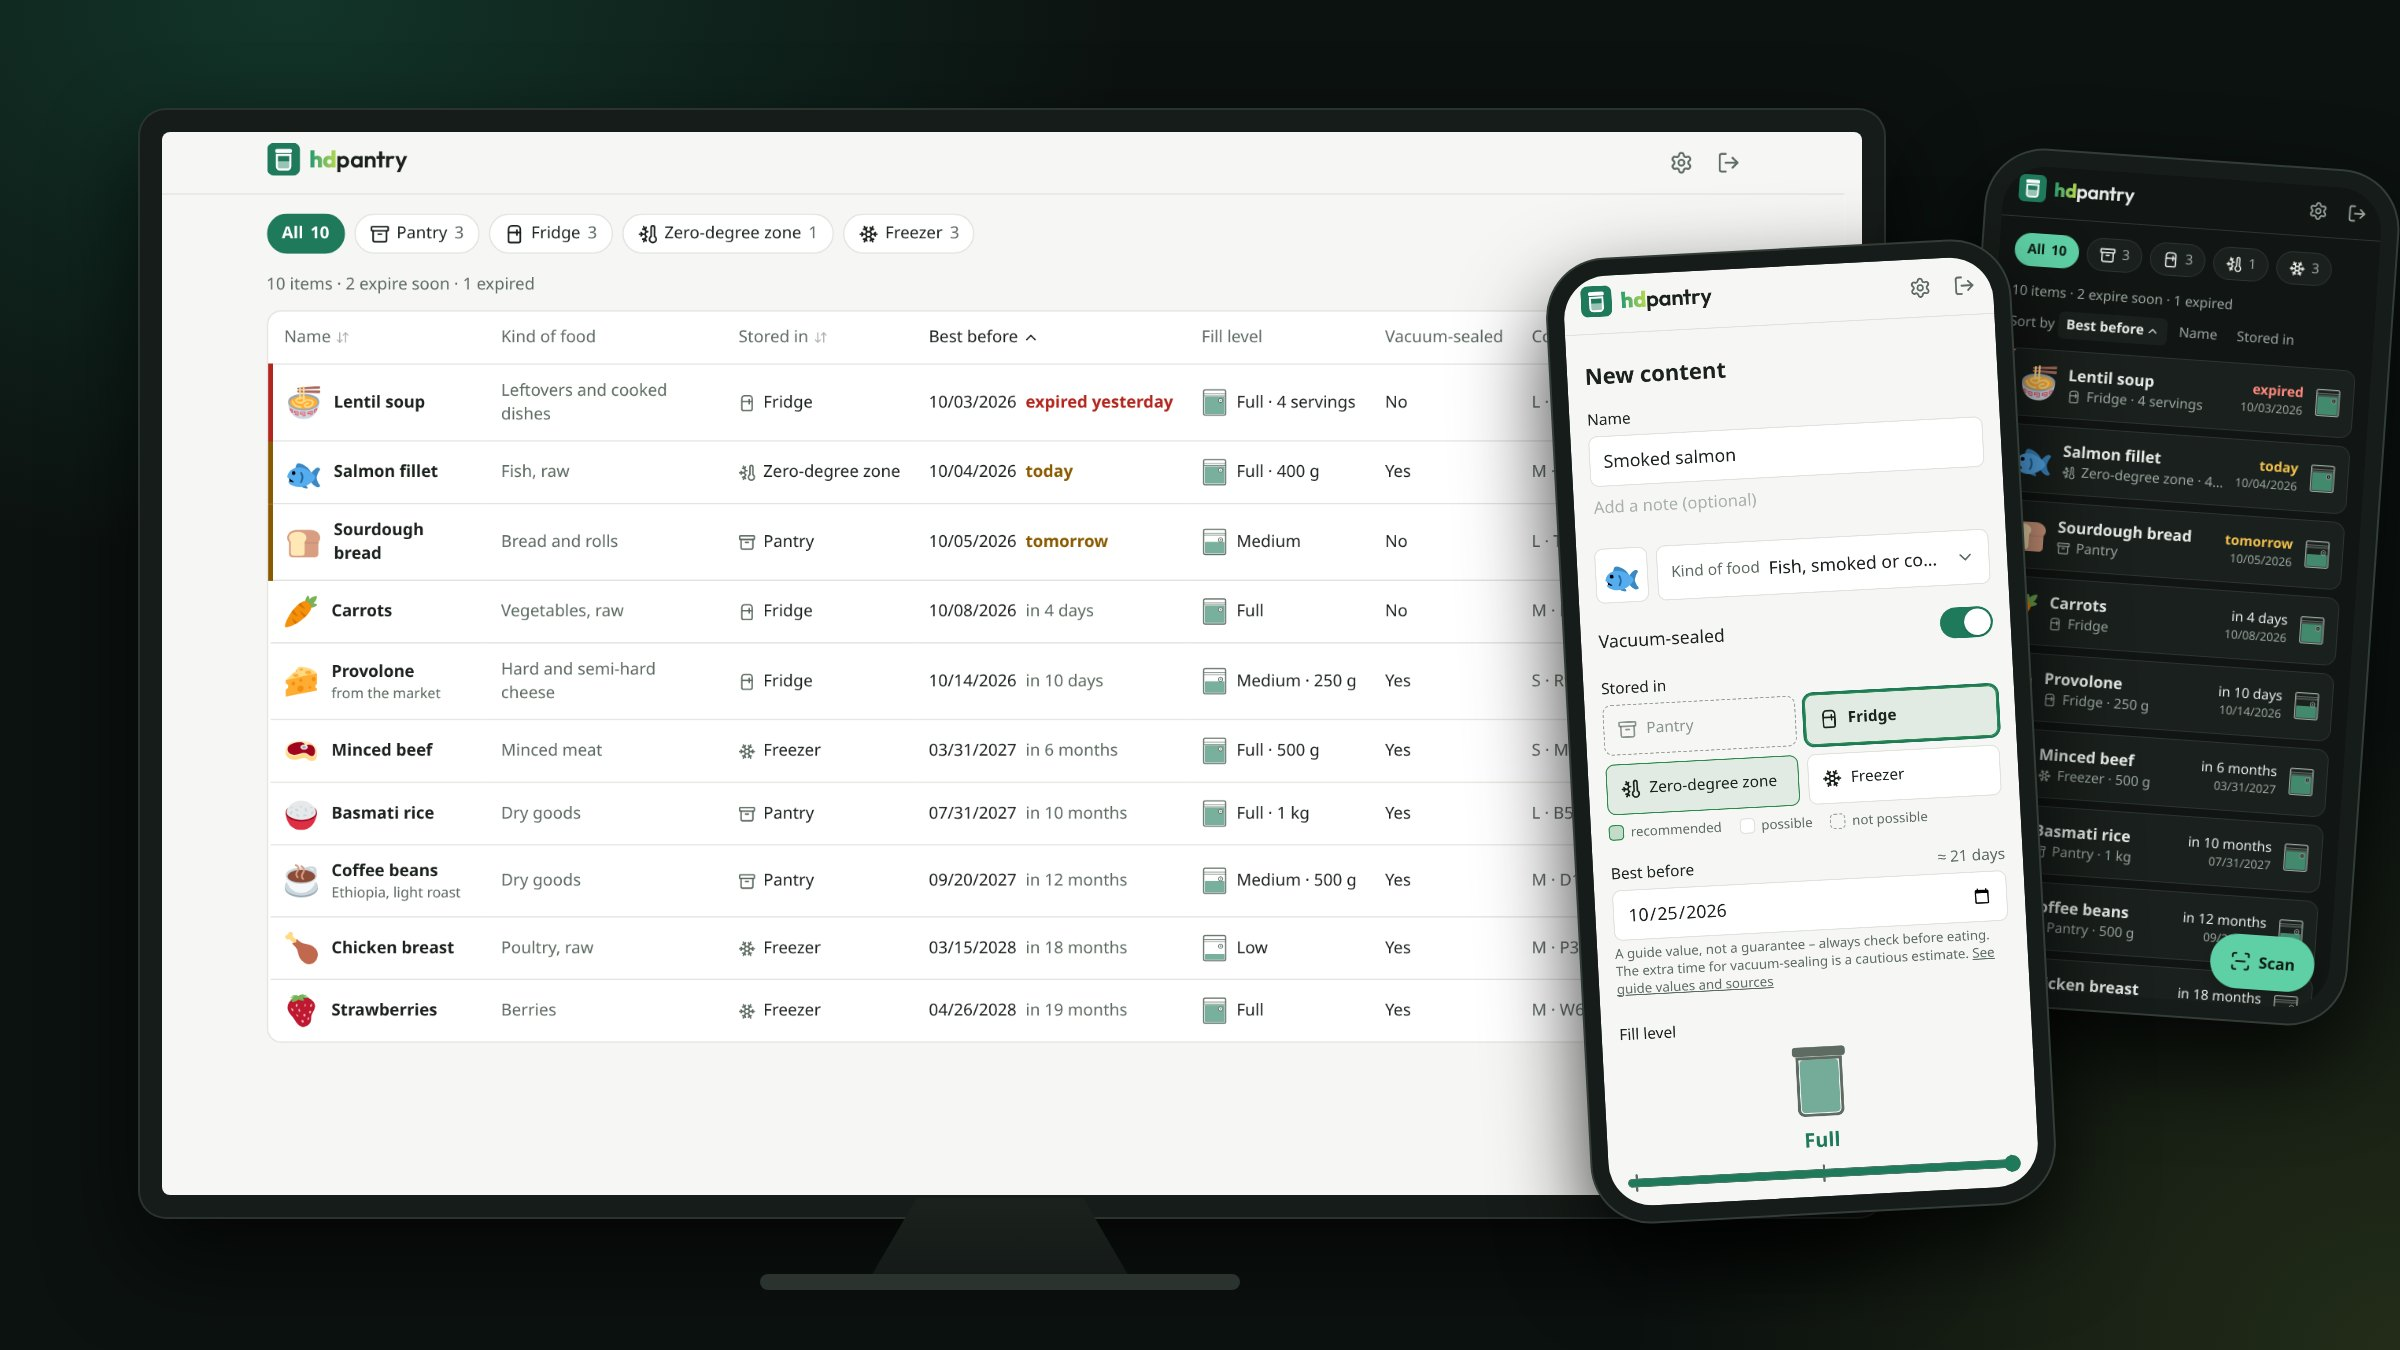
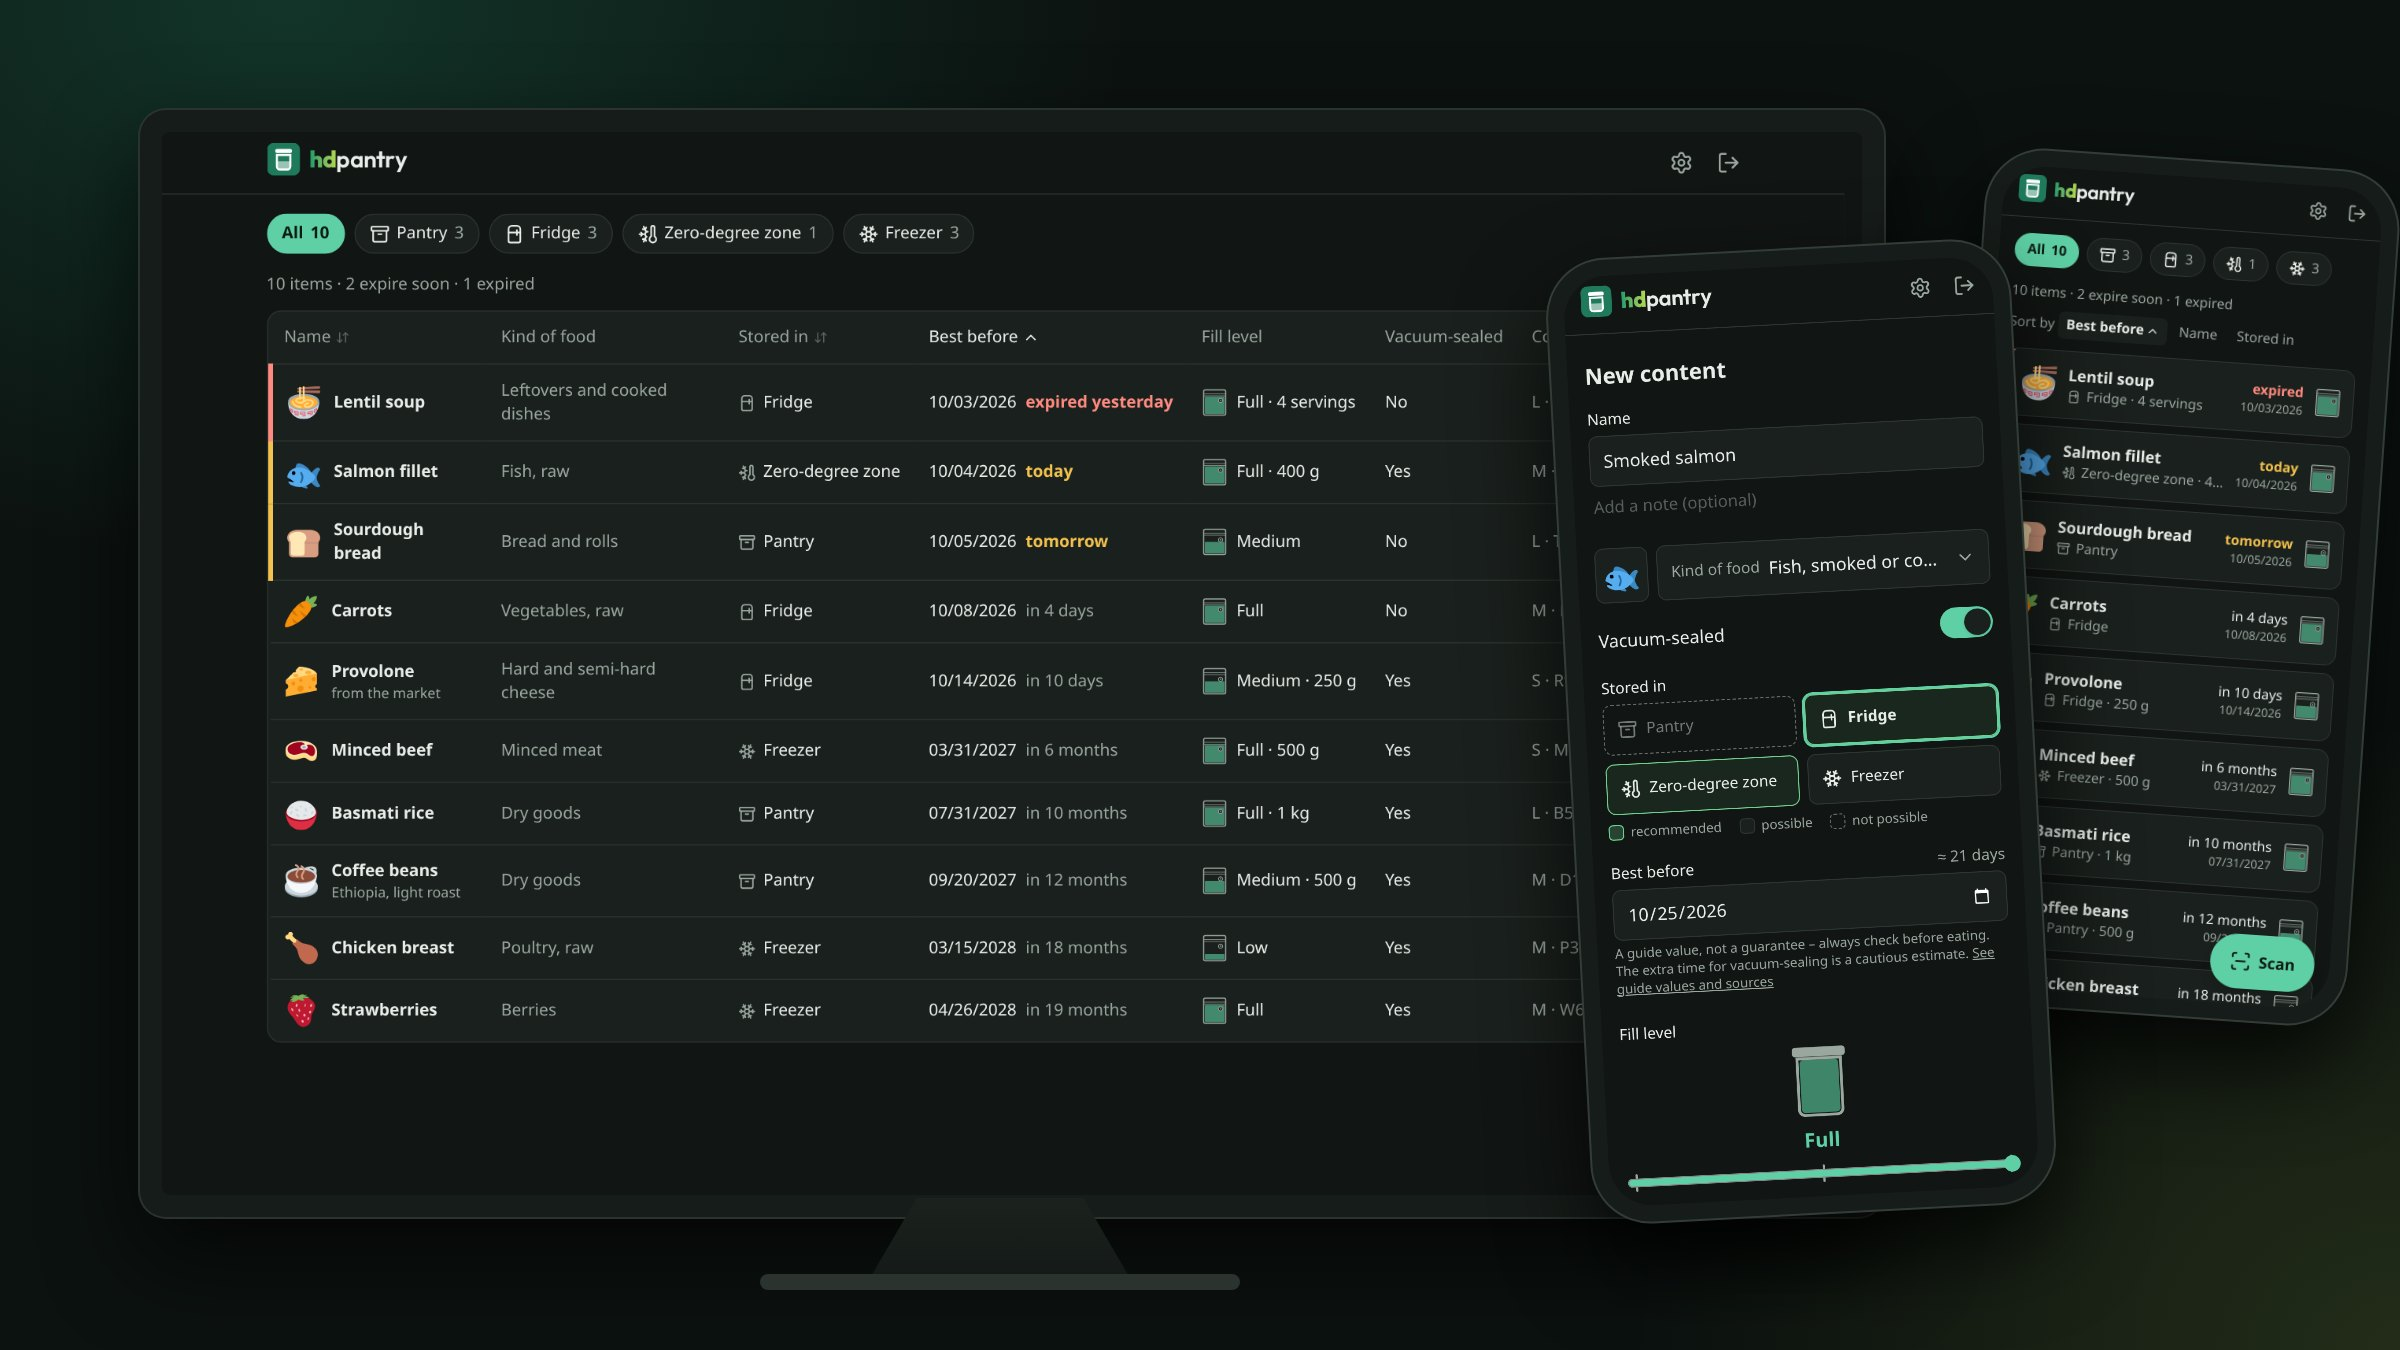
README: all pictures in the dark colour scheme
The sixth screenshot is now the settings list instead of a second stock list.

diff --git a/README.md b/README.md
@@ -69,11 +69,11 @@ hdpantry suggests a best-before date so you keep track of what to eat first. **T
 | :-------------------------------------------------------------------: | :------------------------------------------------------------------------------: | :----------------------------------------------------------------------: |
 | <img src="docs/screenshots/stock.jpg" alt="Stock list" width="260" /> | <img src="docs/screenshots/form.jpg" alt="Form for a new content" width="260" /> | <img src="docs/screenshots/details.jpg" alt="Detail page" width="260" /> |
 
-|                                    Guide values                                    |                                        Appearance                                         |                                              Dark                                              |
-| :--------------------------------------------------------------------------------: | :---------------------------------------------------------------------------------------: | :--------------------------------------------------------------------------------------------: |
-| <img src="docs/screenshots/guide.jpg" alt="Shelf-life guide values" width="260" /> | <img src="docs/screenshots/appearance.jpg" alt="Colour scheme and symbols" width="260" /> | <img src="docs/screenshots/dark.jpg" alt="Stock list in the dark colour scheme" width="260" /> |
+|                                    Guide values                                    |                                        Appearance                                         |                                Settings                                |
+| :--------------------------------------------------------------------------------: | :---------------------------------------------------------------------------------------: | :--------------------------------------------------------------------: |
+| <img src="docs/screenshots/guide.jpg" alt="Shelf-life guide values" width="260" /> | <img src="docs/screenshots/appearance.jpg" alt="Colour scheme and symbols" width="260" /> | <img src="docs/screenshots/settings.jpg" alt="Settings" width="260" /> |
 
-<p align="center"><sub>Screenshots with an invented demo stock. Colourful symbols: Twemoji.</sub></p>
+<p align="center"><sub>Screenshots in the dark colour scheme, with an invented demo stock. Colourful symbols: Twemoji.</sub></p>
 
 ## 🐳 Quick start
 

diff --git a/CLAUDE.md b/CLAUDE.md
@@ -105,7 +105,7 @@ Sparsam bleiben: kleines Image, wenige Abhängigkeiten, schnelle Seiten auf schw
 ## Dokumentation
 
 - Schriftzug für die README: `docs/brand/wordmark-light.png` / `-dark.png` (Logo + „hdpantry“ in der Schrift Outfit, „hd“ extrafett mit Verlauf von Grün `#149a6b` nach Hellgrün `#b3d94d`, Rest halbfett; als Bild erzeugt, weil GitHub keine eigenen Schriften lädt). In der App derselbe Schriftzug als Text (`Brand.svelte`, Schrift lokal gebündelt über `@fontsource/outfit`, Klasse `font-brand`).
-- README (Englisch) ist das Schaufenster: Name, Kurzbeschreibung, Hinweis „Early development“ (bis zum ersten Release), Links ins Wiki, Features – ehrlich getrennt in „funktioniert heute“ und „in Arbeit“, nur was hdpantry auszeichnet –, Quick start, **Built with AI** und License. oben das Titelbild `devices.jpg` (Bildschirm + zwei Handys, eigene Zeichnung der Geräte), Screenshot-Tabelle (`docs/screenshots/`, Handy 390×844 in doppelter Auflösung, englische Oberfläche, **nur erfundene Beispieldaten**, drei pro Zeile) – nach sichtbaren Änderungen neu aufnehmen. Feature-Liste aktuell halten.
+- README (Englisch) ist das Schaufenster: Name, Kurzbeschreibung, Hinweis „Early development“ (bis zum ersten Release), Links ins Wiki, Features – ehrlich getrennt in „funktioniert heute“ und „in Arbeit“, nur was hdpantry auszeichnet –, Quick start, **Built with AI** und License. oben das Titelbild `devices.jpg` (Bildschirm + zwei Handys, eigene Zeichnung der Geräte), Screenshot-Tabelle (`docs/screenshots/`, Handy 390×844 in doppelter Auflösung, englische Oberfläche, dunkles Farbschema, **nur erfundene Beispieldaten**, drei pro Zeile) – nach sichtbaren Änderungen neu aufnehmen. Feature-Liste aktuell halten.
 - Anleitungen für Nutzer gehören ins GitHub-Wiki (eigenes Git-Repo, Englisch), nicht in die README. Ändert sich etwas an Installation, `.env`, Update oder Rettungswegen: Wiki-Seite mit anpassen. Die Seite „Privacy and security“ hält fest, dass es keine Verbindung nach außen gibt und wie Daten gespeichert sind.
 
 ## Befehle
